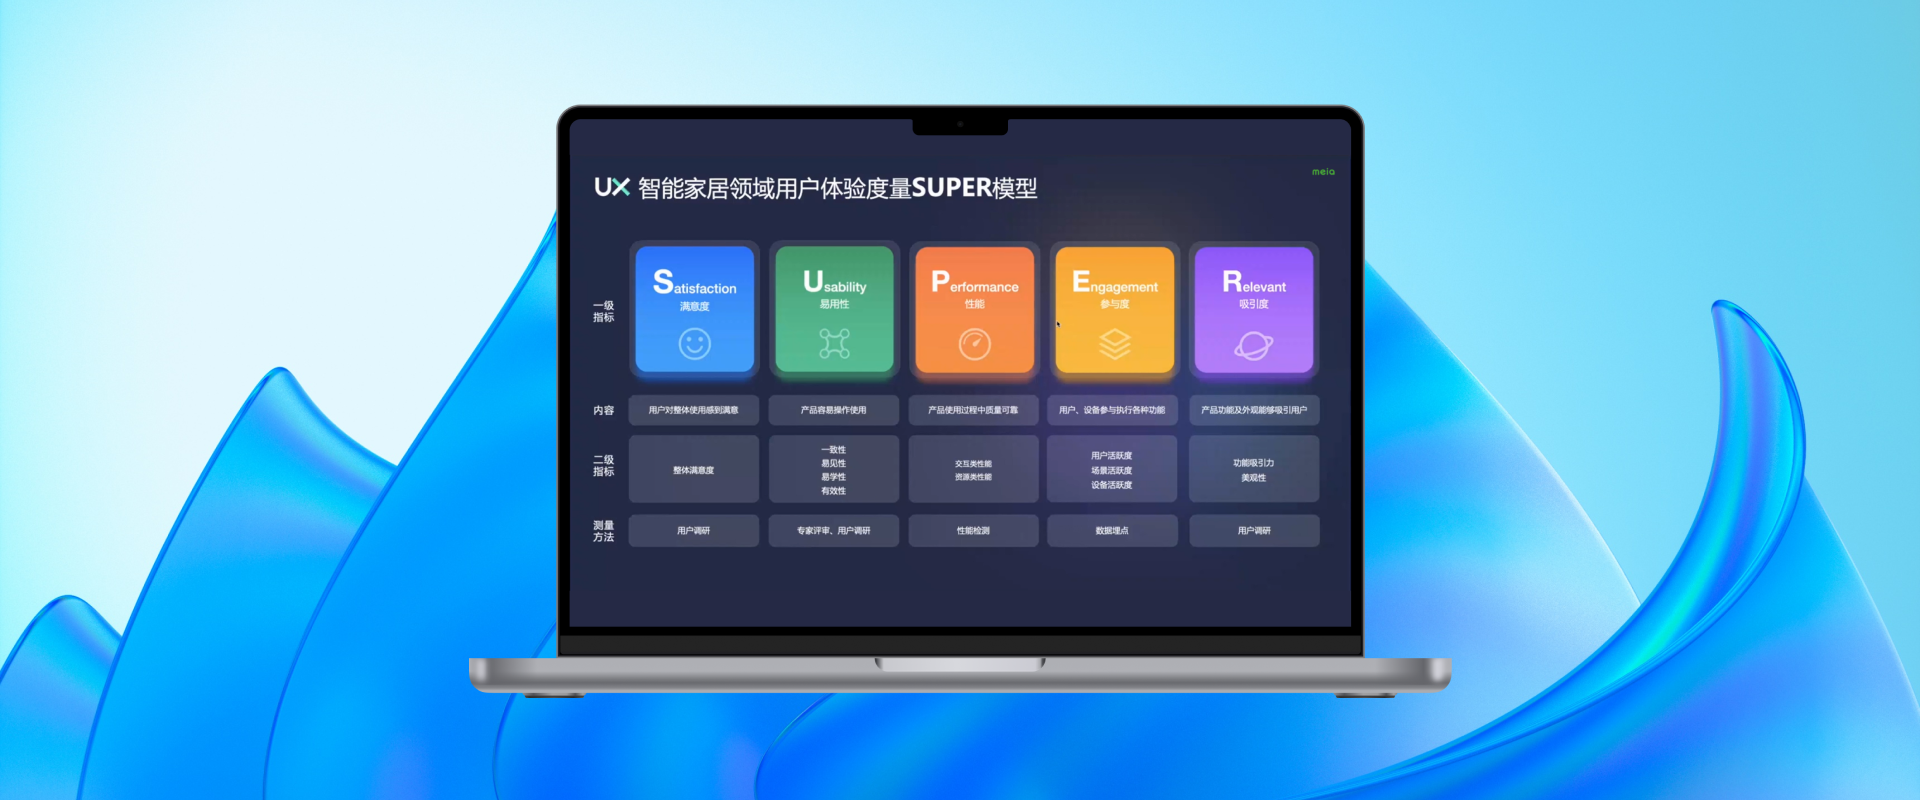
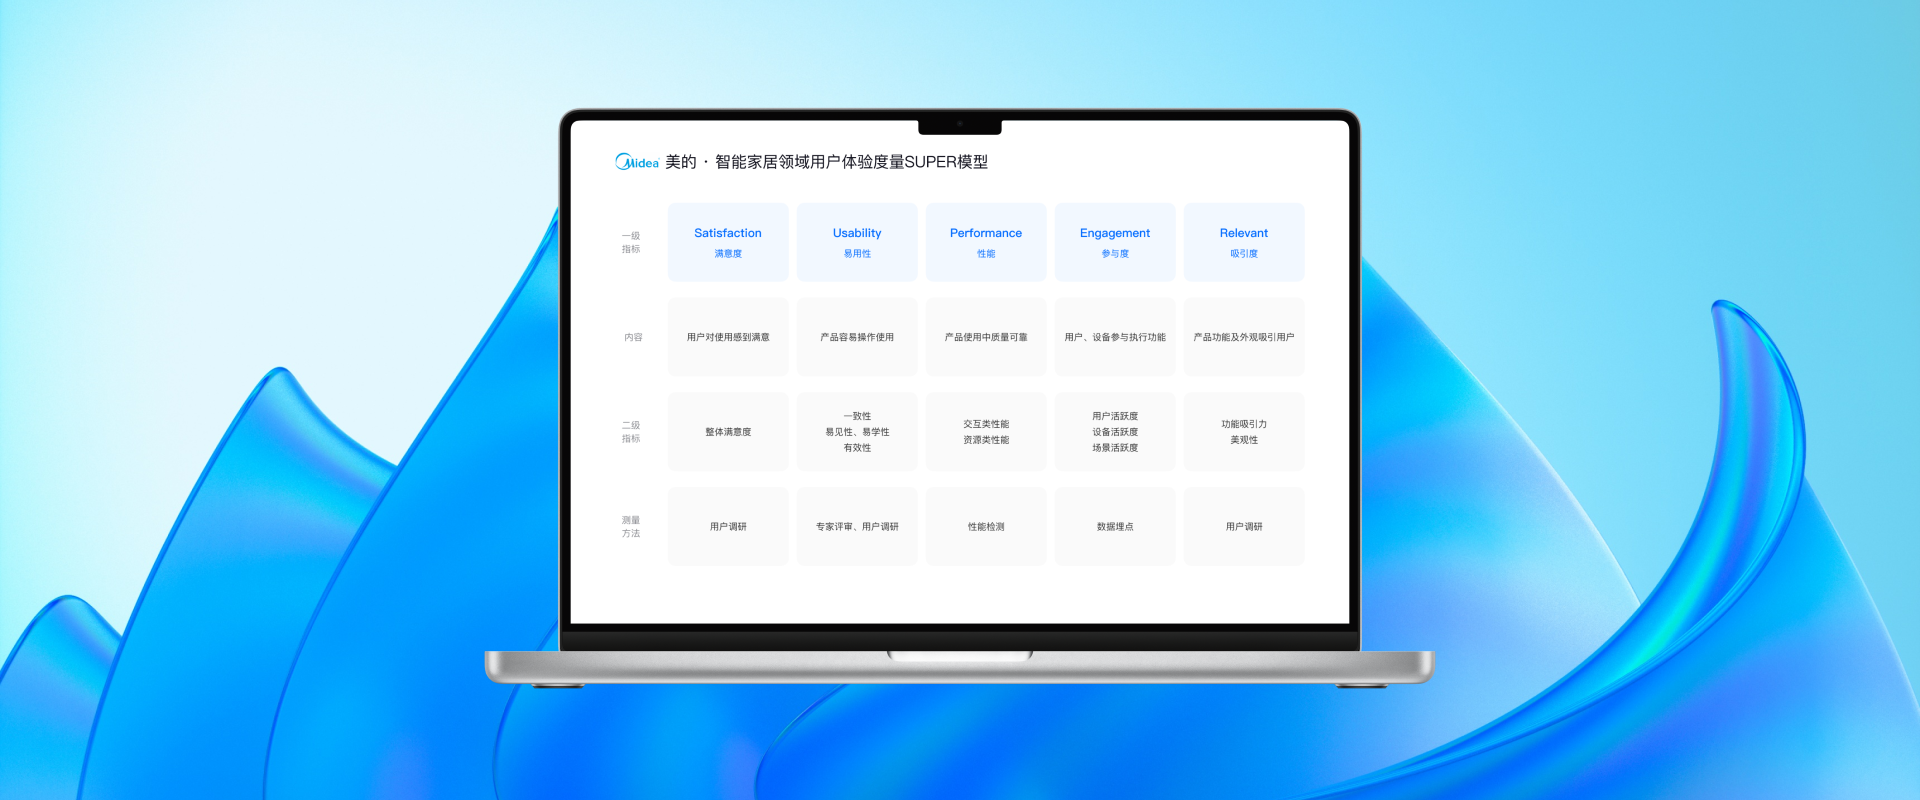
test
8/12

Changed region(s): [[0.2188, 0.125, 0.7812, 0.875]]

diff --git a/super.html b/super.html
@@ -76,7 +76,7 @@
     </div>
     <div>
         <img class="w-full animate__animated animate__fadeIn"
-            src="https://zackzha-img.oss-cn-shenzhen.aliyuncs.com/midea_content_cover.png">
+            src="https://zackzha-img.oss-cn-shenzhen.aliyuncs.com/midea_top_cover.png">
     </div>
 
     <!-- Content -->
@@ -85,13 +85,10 @@
             <p class="PF-sm text-black text-[72px]">Brief</p>
         </div>
         <div class="flex-col w-3/5 py-[16px] space-y-[36px]">
-            <p class="PF-sm text-black text-[32px]">SUPER is a model that includes five dimensions and is specifically
-                designed to measure the user experience of smart home products.</p>
-            <p class="PF-r text-black/60 text-[24px]">The smart home field uses the SUPER model to build a UX metrics
-                model from five metrics: Satisfaction, Usability, Performance, Engagement, and Relevant. According to
-                the path of smart home use, IoT user characteristics, the level of experience in the Meiju APP
-                to filter out the core indicators at all levels, and establish the appropriate UX model, and finally
-                output the user experience report, and once again feedback to the design team, to form a virtuous cycle.
+            <p class="PF-sm text-black text-[32px]">
+                SUPER，一个专门用于衡量智能家居产品体验的UX度量模型。</p>
+            <p class="PF-r text-black/60 text-[24px]">
+                智能家居领域使用SUPER模型，从Satisfaction（满意度）、Usability（易用性）、Performance（性能）、Engagement（参与度）、Relevant（吸引度）5个度量指标来建立UX度量模型。根据智能家居使用路径、IoT用户特性、美居体验水平筛选出各个层次的核心指标，并建立适配的UX模型，最后输出用户体验报告，并再次反馈给设计团队，形成良性循环。
             </p>
         </div>
     </div>
@@ -107,11 +104,7 @@
                     video.<br>
                     单击此处观看项目介绍视频。</a>
             </div>
-            <p class="PF-r text-black/60 text-[24px]">This presentation introduces the content and construction process
-                of the user experience metric model "SUPER". On the one hand, it can guide product managers and
-                designers in IoT field to carry out scientific experience metrics and product optimization. On the other
-                hand, designers in other industries can also learn from the model construction process to build a metric
-                model that meets their own business characteristics.</p>
+            <p class="PF-r text-black/60 text-[24px]">以上视频分享了用户体验度量模型“SUPER”的内容与构建方法过程。一方面能指导IoT领域的产品经理与设计师进行科学的体验度量与产品优化。另一方面，其他行业的设计师也可以借鉴模型的建设过程构建符合自身业务特性的度量模型。</p>
         </div>
     </div>
     <div class="my-[96px] px-[96px] flex">
@@ -119,44 +112,33 @@
             <p class="PF-sm text-black text-[72px]">My Contribution</p>
         </div>
         <div class="flex-col w-3/5 py-[16px] space-y-[36px]">
-            <p class="PF-r text-black/60 text-[24px]">The work was very challenging, but that pushed me to learn more
-                than at any other internship.
+            <p class="PF-r text-black/60 text-[24px]">这项工作非常具有挑战性，它促使我比在任何其他实习中学到更多东西。
             </p>
             <div class="flex-col space-y-[24px]">
                 <div
                     class="flex-row space-y-[16px] bg-[#DBFFCC] rounded-[32px] border border-[#4DFF00] px-[36px] py-[32px]">
                     <div class="flex flex-row items-center space-x-[16px]">
                         <img class="w-[40px] h-[40px]" src="media/midea/icon_40_search.png">
-                        <p class="text-[#0A2600] text-[32px] PF-sm">Model Research, Review, and Analysis</p>
+                        <p class="text-[#0A2600] text-[32px] PF-sm">模型研究、审查和分析</p>
                     </div>
-                    <p class="text-[#1A6600] text-[24px] PF-r">Analyze and deconstruct 8 user experience metric models
-                        such as NPS, HEART, PTECH, etc., sort out 24 dimensions and 248 indicators based on the home
-                        appliance usage scenarios, and filter and generate 44 coarse indicators through the Hierarchical
-                        Analysis Method and the K-J method, ultimately forming the SUPER, the first user experience
-                        metric model in the field of IoT, to drive the quantification of the experience of Midea's IoT
-                        product line.</p>
+                    <p class="text-[#1A6600] text-[24px] PF-r">分析解构NPS、HEART、PTECH等8个用户体验指标模型，结合家电使用场景梳理出24个维度、248个指标，并通过层次分析法、KJ法筛选生成44个粗指标，最终形成物联网领域首个用户体验指标模型SUPER，驱动美的物联网产品线体验的量化。</p>
                 </div>
                 <div
                     class="flex-row space-y-[16px] bg-[#DBFFCC] rounded-[32px] border border-[#4DFF00] px-[36px] py-[32px]">
                     <div class="flex flex-row items-center space-x-[16px]">
                         <img class="w-[40px] h-[40px]" src="media/midea/icon_40_interaction.png">
-                        <p class="text-[#0A2600] text-[32px] PF-sm">Interaction Walkthrough</p>
+                        <p class="text-[#0A2600] text-[32px] PF-sm">交互走查</p>
                     </div>
-                    <p class="text-[#1A6600] text-[24px] PF-r">Led 10+ interaction walkthroughs for MEIJU APP and home
-                        appliance service system, identified 30+ key experience issues using SUPER model, pushed up and
-                        optimized the model performance, and wrote about 5,000 words of usability walkthrough report.
+                    <p class="text-[#1A6600] text-[24px] PF-r">主导了美居APP及相关硬件10+次交互走查，运用SUPER模型识别出30+个关键体验问题，提升并优化了模型性能，撰写了约5000字的可用性排查报告。
                     </p>
                 </div>
                 <div
                     class="flex-row space-y-[16px] bg-[#DBFFCC] rounded-[32px] border border-[#4DFF00] px-[36px] py-[32px]">
                     <div class="flex flex-row items-center space-x-[16px]">
                         <img class="w-[40px] h-[40px]" src="media/midea/icon_40_interview.png">
-                        <p class="text-[#0A2600] text-[32px] PF-sm">Expert Interviews</p>
+                        <p class="text-[#0A2600] text-[32px] PF-sm">专家访谈</p>
                     </div>
-                    <p class="text-[#1A6600] text-[24px] PF-r">Organized and facilitated 4 expert interviews and user
-                        workshops, participated in writing interview scripts and research outlines, used NVivo to
-                        qualitatively analyze the corpus of interview results, and executed visualization and debriefing
-                        using Tableau, PPT, and other tools.
+                    <p class="text-[#1A6600] text-[24px] PF-r">组织并主持了4次专家访谈和用户研讨会，参与撰写访谈脚本和研究提纲，使用NVivo对访谈结果语料库进行定性分析，并使用Tableau等工具进行可视化分析。
                     </p>
                 </div>
             </div>
@@ -175,10 +157,7 @@
                     video.<br>
                     单击此处阅览项目过程。</a>
             </div>
-            <p class="PF-r text-black/60 text-[24px]">The project process included existing model research, interviews
-                with industry UX experts, interaction walk-throughs, model construction, and final validity confidence
-                analysis. You can learn more at the link above. If the link does not open correctly, please find my
-                email in the footer and contact me and I will send you the PDF file.</p>
+            <p class="PF-r text-black/60 text-[24px]">该项目流程包括现有模型调研、行业用户体验专家访谈、交互走查、模型构建以及最终效度置信度分析。您可以通过上方链接了解更多信息。如果链接无法正常打开，请在页脚找到我的邮箱地址并联系我，我会将PDF文件发送给您。</p>
         </div>
     </div>
 

diff --git a/about.html b/about.html
@@ -57,56 +57,61 @@
         </div>
     </div>
     <!-- Overview -->
-    <div class="flex bg-white justify-between space-x-[160px] px-[96px] mb-[96px] animate__animated animate__fadeIn">
+    <div class="flex bg-white justify-between space-x-[144px] px-[96px] mb-[96px] animate__animated animate__fadeIn">
         <div>
-            <p class="text-[32px] PF-sm">Past</p>
-            <p class="pt-[24px] text-[24px] PF-r text-black/60">UX/UI设计师，就职于迈越。</p>
+            <p class="text-[32px] PF-sm pb-[12px]">Past</p>
+            <img class="w-[120px] h-[120px]" src="media/gafa_logo.png">
+            <p class="pt-[12px] text-[24px] PF-r text-black/60">工业设计学士，毕业于广州美术学院。</p>
         </div>
         <div>
             <p class="text-[32px] PF-sm">Current</p>
-            <p class="pt-[24px] text-[24px] PF-r text-black/60">产品体验设计实习生，就职于微信。</p>
+            <div class="flex pt-[12px] space-x-[12px]">
+            <img class="w-[120px] h-[120px]" src="media/tencent_logo.png">
+            <img class="w-[120px] h-[120px]" src="media/weixin_logo.png">
+            </div>
+            <p class="pt-[12px] text-[24px] PF-r text-black/60">产品体验设计实习生，就职于腾讯微信事业群。</p>
         </div>
         <div>
-            <p class="text-[32px] PF-sm">Soon</p>
-            <p class="pt-[24px] text-[24px] PF-r text-black/60">智能系统设计硕士，就读于香港理工大学。</p>
+            <p class="text-[32px] PF-sm pb-[12px]">Soon</p>
+                        <img class="w-[120px] h-[120px]" src="media/polyu_logo.png">
+            <p class="pt-[12px] text-[24px] PF-r text-black/60">智能系统设计硕士，就读于香港理工大学。</p>
         </div>
     </div>
 
     <!-- Content -->
     <div class="mt-[120px] px-[96px] flex">
         <div class="flex w-2/5">
-            <p class="PF-sm text-black text-[56px]">Self-introduction</p>
+            <p class="PF-sm text-black text-[56px]">自我介绍</p>
         </div>
         <div class="flex-col w-3/5 py-[16px] space-y-[36px]">
             <div class="flex space-x-[16px] items-center">
-                <a
-                    class="cursor-not-allowed PF-sm text-black text-[32px] hover:underline">Click here to download my resume.<br>
+                <a class="cursor-not-allowed PF-sm text-black text-[32px] hover:underline">Click here to download my
+                    resume.<br>
                     单击此处下载简历。</a>
             </div>
-            <p class="PF-r text-black/60 text-[24px]">I'm Zha Chengke (查成柯), you can also call me Zack. I am a UX/UI
-                designer, graduated from Guangzhou Academy of Fine Arts with a bachelor's degree, and am studying at the
-                Hong Kong Polytechnic University with a master's degree. I have 1 year of full-time UX/UI work
-                experience, 1 year of interaction/experience/user research internship project experience, covering many
-                business areas such as overseas social products, AIGC products, smart home (IoT), education products,
-                experience consulting, and B-end products.</p>
+            <p class="PF-r text-black/60 text-[24px]">
+                Hi，我是查成柯（Zack），一名产品体验设计师，本科毕业于广州美术学院，现于香港理工大学攻读硕士。
+                我拥有 1 年全职 UX/UI 设计经验，以及 4 段涵盖交互设计、用户体验与用户研究的项目与实习经历，曾参与电商、社交、AIGC、智能家居（IoT）等多领域产品的设计与优化。
+            </p>
         </div>
     </div>
     <div class="mt-[96px] px-[96px] flex">
         <div class="flex w-2/5">
-            <p class="PF-sm text-black text-[56px]">More works</p>
+            <p class="PF-sm text-black text-[56px]">设计之外</p>
         </div>
         <div class="flex-col w-3/5 py-[16px] space-y-[36px]">
             <div class="flex space-x-[16px] items-center">
-                <a href="https://www.figma.com/proto/ide4uqnnv0sar0qPGG68Zv/Zack's-More-Works?page-id=0%3A1&node-id=1-1332&p=f&viewport=192%2C30%2C0.2&t=z0v4uU6qSHKAFnIs-1&scaling=min-zoom&content-scaling=fixed" target="_blank"
-                    class="PF-sm text-black text-[32px] hover:underline">Click here to view more works.<br>
+                <a href="https://www.figma.com/proto/ide4uqnnv0sar0qPGG68Zv/Zack's-More-Works?page-id=0%3A1&node-id=1-1332&p=f&viewport=192%2C30%2C0.2&t=z0v4uU6qSHKAFnIs-1&scaling=min-zoom&content-scaling=fixed"
+                    target="_blank" class="PF-sm text-black text-[32px] hover:underline">Click here to view more
+                    works.<br>
                     单击此处浏览更多作品。</a>
             </div>
-            <p class="PF-r text-black/60 text-[24px]">In addition to the UX/UI projects shown in the webpage, I have a much wider range of work covering technology, design, and other areas, including HCI, AR development, EEG technology, and more. You can click the link above to download the PDF to see more.</p>
+            <p class="PF-r text-black/60 text-[24px]">除网页中所展示的UX/UI设计外，我对新兴技术也保持着相当的热情。例如AIGC、增强现实 (AR) 开发、脑电图 (EEG) 技术等。您可以点击上方链接以查看更多内容。</p>
         </div>
     </div>
     <div class="mt-[96px] px-[96px] flex">
         <div class="flex w-2/5">
-            <p class="PF-sm text-black text-[56px]">I'm listening to...</p>
+            <p class="PF-sm text-black text-[56px]">我最爱的专辑 🎵</p>
         </div>
         <div class="flex w-3/5 my-[24px]">
             <img src="https://zackzha-img.oss-cn-shenzhen.aliyuncs.com/album.png">
@@ -114,7 +119,7 @@
     </div>
     <div class="mt-[96px] px-[96px] flex">
         <div class="flex w-2/5">
-            <p class="PF-sm text-black text-[56px]">I'm watching...</p>
+            <p class="PF-sm text-black text-[56px]">我最爱的漫画 📕</p>
         </div>
         <div class="flex w-3/5 my-[24px]">
             <img src="https://zackzha-img.oss-cn-shenzhen.aliyuncs.com/anime.png">

diff --git a/index.html b/index.html
@@ -10,10 +10,10 @@
   <link rel="stylesheet" href="font.css">
 </head>
 
-<body>
+<body class="min-w-[1440px]">
   <!-- Navbar -->
   <div class="bg-[#F6FAFD]">
-    <nav class="flex justify-between w-full px-16 py-10 z-30 animate__animated animate__fadeInDown absolute">
+    <nav class="flex justify-between min-w-[1440px] w-full px-16 py-10 z-30 animate__animated animate__fadeInDown absolute">
       <div class="flex justify-normal w-1/3 space-x-8">
         <a href="#works"
           class="flex justify-center w-[144px] h-16 justify-normal text-xl rounded-full border border-black/20 text-black hover:bg-black hover:text-white hover:border-0 transition-all duration-300 ease-in-out"><button>✏
@@ -41,7 +41,7 @@
   <!-- Hero Section -->
   <div>
     <div class="z-0 animate__animated animate__fadeIn ">
-      <video class="w-screen" autoplay loop muted playsinline style="mix-blend-mode: darken;">
+      <video class="min-w-[1440px] w-screen" autoplay loop muted playsinline style="mix-blend-mode: darken;">
         <source src="https://zackzha-img.oss-cn-shenzhen.aliyuncs.com/new_bg.webm">
       </video>
     </div>
@@ -110,7 +110,7 @@
           class="bg-[#F5FAFD] pt-[12px] pb-[6px] pl-[12px] pr-[6px] relative ease-in-out transform duration-300 transition-all">
           <a href="https://medium.com/@alstonchvita/因爲糟糕的用戶體驗-我重新設計了這款ai占卜產品-quin-cac9bf025dd4" target="_blank">
             <img class="w-full h-auto rounded-[48px] hover:brightness-110 ease-in-out duration-300"
-              src="https://zackzha-img.oss-cn-shenzhen.aliyuncs.com/quin_cover.png">
+              src="https://zackzha-img.oss-cn-shenzhen.aliyuncs.com/quin_cover.jpg">
           </a>
           <div class="absolute top-[40px] left-[40px] text-[28px] flex justify-normal space-x-[8px]">
             <img src="https://zackzha-img.oss-cn-shenzhen.aliyuncs.com/quin_logo.png">
@@ -126,7 +126,7 @@
           class="bg-[#F5FAFD] pt-[12px] pb-[6px] pl-[6px] pr-[12px] relative ease-in-out transform duration-300 transition-all">
           <a href="super.html" target="_blank">
             <img class="w-full h-auto rounded-[48px] hover:brightness-125 ease-in-out duration-300"
-              src="https://zackzha-img.oss-cn-shenzhen.aliyuncs.com/cover_super.png">
+              src="https://zackzha-img.oss-cn-shenzhen.aliyuncs.com/cover_super.jpg">
           </a>
           <div class="absolute top-[40px] left-[40px] text-[28px] flex justify-normal space-x-[8px]">
             <img src="media/logo_midea.png">
@@ -156,7 +156,7 @@
           class="bg-[#F5FAFD] pt-[6px] pb-[6px] pl-[6px] pr-[12px] relative ease-in-out transform duration-300 transition-all">
           <a href="xmind.html" target="_blank">
             <img class="w-full h-auto rounded-[48px] hover:brightness-110 ease-in-out duration-300"
-              src="https://zackzha-img.oss-cn-shenzhen.aliyuncs.com/cover_card_Xmind.png">
+              src="https://zackzha-img.oss-cn-shenzhen.aliyuncs.com/cover_card_Xmind.jpg">
           </a>
           <div class="absolute top-[40px] left-[40px] text-[28px] flex justify-normal space-x-[8px]">
             <img src="media/xmind/xmind_logo_44.png">
